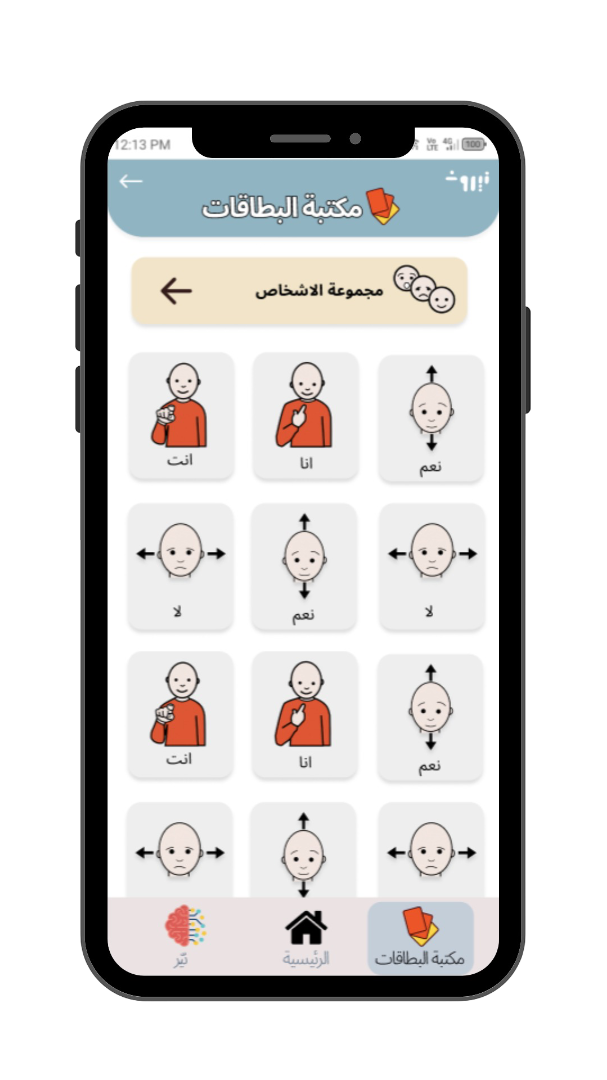
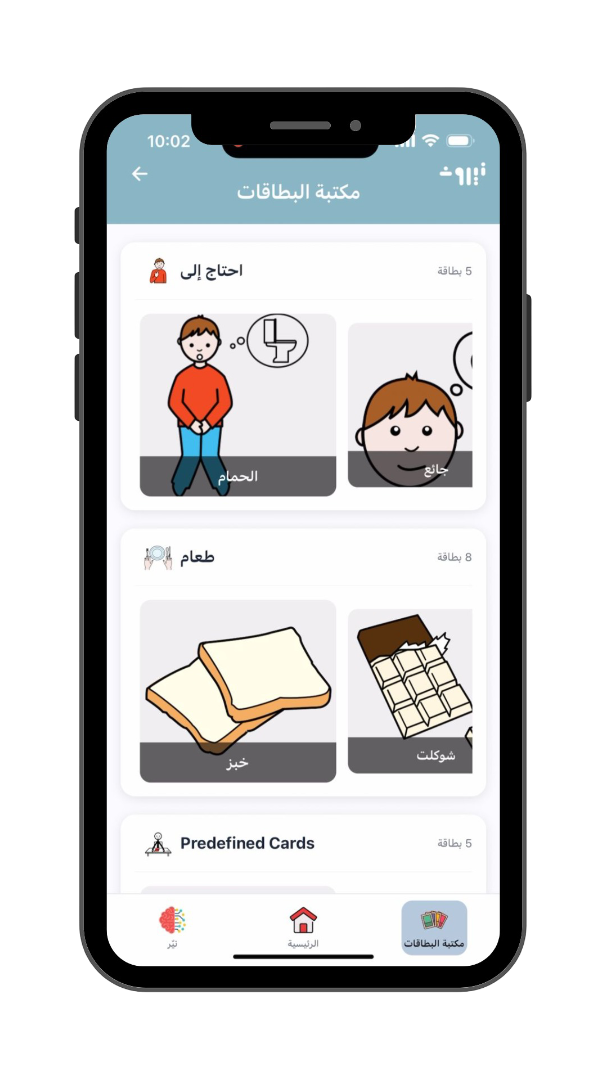
fixed the app screens

Changed region(s): [[0.1186, 0.0611, 0.8896, 0.9472]]

diff --git a/style.css b/style.css
@@ -481,6 +481,8 @@
             text-align: center;
             padding: 24px;
             box-shadow: 0 12px 28px rgba(255, 140, 66, 0.35);
+            position: relative;
+            z-index: 2;
         }
 
         .problem-stat h3 {
@@ -511,9 +513,13 @@
 
         .problem-blocks-img {
             display: block;
-            width: 140px;
+            width: 170px;
             height: auto;
-            filter: drop-shadow(0 6px 16px rgba(0, 0, 0, 0.12));
+            filter: drop-shadow(0 8px 20px rgba(0, 0, 0, 0.12));
+            position: relative;
+            left: -28px;
+            transform: translateY(12px);
+            z-index: 1;
         }
 
         .problem-details {
@@ -581,7 +587,9 @@
             }
 
             .problem-blocks-img {
-                width: 120px;
+                width: 150px;
+                left: -18px;
+                transform: translateY(8px);
             }
         }
 
@@ -1034,16 +1042,16 @@
         }
 
         .app-screen {
-            background: #1c1c1e;
-            padding: 11px;
-            border-radius: 36px;
-            box-shadow: 0 20px 50px rgba(26, 43, 109, 0.2);
-            border: 3px solid #2c2c2e;
+            background: transparent;
+            padding: 0;
+            border-radius: 28px;
+            box-shadow: none;
+            border: none;
         }
 
         .phone-slide.is-active .app-screen {
-            box-shadow: 0 32px 64px rgba(26, 43, 109, 0.28);
-            border-color: #3a3a3c;
+            box-shadow: none;
+            border-color: transparent;
         }
 
         .app-screen img {

diff --git a/index.html b/index.html
@@ -71,7 +71,7 @@
         <div class="problem-layout">
             <div class="problem-stat reveal reveal-left reveal-delay-1">
                 <h3>30%</h3>
-                <p>Of autistic children develop functional spoken language</p>
+                <p>Of autistic children don't develop functional spoken language</p>
             </div>
             <div class="problem-content-wrap">
                 <div class="problem-visual reveal reveal-scale reveal-delay-2">